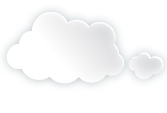
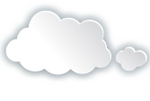
Finalized interface

Changed region(s): [[0.0, 0.0594, 1.0, 0.7723]]

diff --git a/app/assets/stylesheets/clouds/clouds.css b/app/assets/stylesheets/clouds/clouds.css
@@ -3,8 +3,8 @@
   position:absolute;
   bottom: 2%;
 	background:url('/images/cloud1.png');
-	width:196px;
-	height:159px;
+	width:170px;
+	height:138px;
 	overflow:hidden;  
 	margin-left:50px;
 	padding-top:10px;
@@ -43,8 +43,8 @@
   position:absolute;
   bottom: 20%;
 	background:url('/images/cloud3.png');
-	width:254px;
-	height:154px;	
+	width:240px;
+	height:141px;	
 	overflow:hidden;  
 	margin-left:50px;
 	padding-top:10px;
@@ -83,8 +83,8 @@
   position:absolute;
   top: 5%;
 	background:url('/images/cloud2.png');
-	width:167px;
-	height:113px;
+	width:150px;
+	height:101px;
 	overflow:hidden;  
 	margin-left:50px;
 	padding-top:10px;
@@ -123,8 +123,8 @@
   position:absolute;
   bottom: 25%;
 	background:url('/images/cloud4.png');
-	width:150px;
-	height:115px;
+	width:200px;
+	height:150px;
 	overflow:hidden;  
 	margin-left:50px;
 	padding-top:10px;
